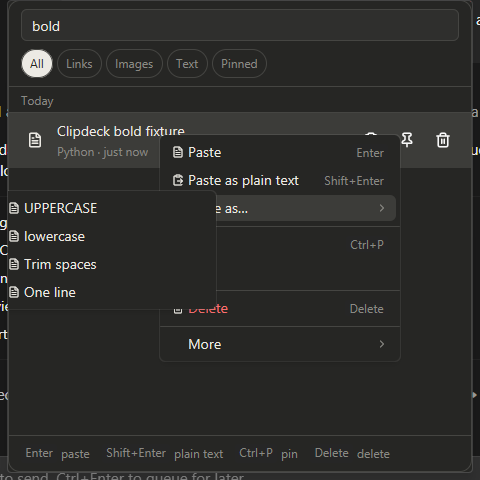
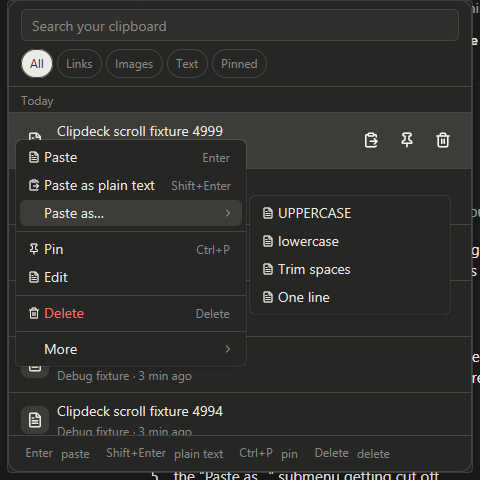
Keep paste submenus inside the popup

diff --git a/src/ui/menu.rs b/src/ui/menu.rs
@@ -24,7 +24,7 @@ fn item(label: &str, view: WeakEntity<Popup>, id: i64, cmd: Command) -> PopupMen
             .flex()
             .items_center()
             .w_full()
-            .min_w(px(180.))
+            .min_w(px(160.))
             .gap_3()
             .text_color(if matches!(cmd, Command::Delete) {
                 cx.theme().danger
@@ -43,17 +43,13 @@ pub(super) fn build(
     mut menu: PopupMenu,
     view: WeakEntity<Popup>,
     id: i64,
+    clip: &crate::clip::Clip,
     window: &mut Window,
     cx: &mut Context<PopupMenu>,
 ) -> PopupMenu {
-    let Some(clip) = view
-        .upgrade()
-        .and_then(|v| v.read(cx).clips.iter().find(|c| c.id == id).cloned())
-    else {
-        return menu;
-    };
     menu = menu
-        .min_w(px(240.))
+        .min_w(px(220.))
+        .max_w(px(230.))
         .item(item("Paste", view.clone(), id, Command::Paste(false)))
         .item(
             item(
@@ -84,7 +80,7 @@ pub(super) fn build(
             } else {
                 sub = sub.item(PopupMenuItem::new("Use Paste to copy files").disabled(true));
             }
-            sub
+            sub.min_w(px(200.)).max_w(px(220.))
         })
         .separator()
         .item(item(
@@ -98,12 +94,14 @@ pub(super) fn build(
         .item(item("Delete", view.clone(), id, Command::Delete))
         .separator();
     menu.submenu("More", window, cx, move |sub, _, _| {
-        sub.item(item(
-            "Copy without pasting",
-            view.clone(),
-            id,
-            Command::Copy,
-        ))
-        .item(item("Clip details", view.clone(), id, Command::Details))
+        sub.min_w(px(200.))
+            .max_w(px(220.))
+            .item(item(
+                "Copy without pasting",
+                view.clone(),
+                id,
+                Command::Copy,
+            ))
+            .item(item("Clip details", view.clone(), id, Command::Details))
     })
 }

diff --git a/src/ui/rows.rs b/src/ui/rows.rs
@@ -3,7 +3,7 @@ use gpui::*;
 use gpui_component::{
     ActiveTheme, Icon,
     button::{Button, ButtonVariants},
-    menu::ContextMenuExt,
+    menu::PopupMenu,
 };
 use gpui_kit_assets::IconName;
 use std::sync::Arc;
@@ -65,7 +65,6 @@ impl Popup {
                 .child(icon(&clip.kind))
                 .into_any_element()
         };
-        let view = cx.entity().downgrade();
         div()
             .id(("clip", id as u64))
             .w_full()
@@ -156,9 +155,28 @@ impl Popup {
                 this.selected = ix;
                 cx.notify();
             }))
-            .context_menu(move |menu, window, cx| {
-                super::menu::build(menu, view.clone(), id, window, cx)
-            })
+            .on_mouse_down(
+                MouseButton::Right,
+                cx.listener(move |this, event: &MouseDownEvent, window, cx| {
+                    let view = cx.entity().downgrade();
+                    let Some(clip) = this.clips.iter().find(|c| c.id == id).cloned() else {
+                        return;
+                    };
+                    let menu = PopupMenu::build(window, cx, move |menu, window, cx| {
+                        super::menu::build(menu, view.clone(), id, &clip, window, cx)
+                    });
+                    cx.subscribe_in(&menu, window, |this, _, _: &DismissEvent, window, cx| {
+                        this.context_menu = None;
+                        this.input.update(cx, |s, cx| s.focus(window, cx));
+                        cx.notify();
+                    })
+                    .detach();
+                    menu.focus_handle(cx).focus(window, cx);
+                    this.context_menu = Some((menu, event.position.y));
+                    cx.stop_propagation();
+                    cx.notify();
+                }),
+            )
             .into_any_element()
     }
 }

diff --git a/src/ui/popup.rs b/src/ui/popup.rs
@@ -29,6 +29,7 @@ pub struct Popup {
     pub(super) error: Option<String>,
     pub(super) editor: Option<(i64, Entity<TextareaState>)>,
     pub(super) details: Option<String>,
+    pub(super) context_menu: Option<(Entity<gpui_component::menu::PopupMenu>, Pixels)>,
     pub(super) paused: Arc<AtomicBool>,
     _subscriptions: Vec<Subscription>,
 }
@@ -72,6 +73,7 @@ impl Popup {
             error: None,
             editor: None,
             details: None,
+            context_menu: None,
             paused,
             _subscriptions: vec![change, activation, theme],
         };
@@ -87,6 +89,7 @@ impl Popup {
         self.error = None;
         self.editor = None;
         self.details = None;
+        self.context_menu = None;
         self.input.update(cx, |s, cx| {
             s.set_value("", window, cx);
             s.focus(window, cx);

diff --git a/src/ui/render.rs b/src/ui/render.rs
@@ -124,5 +124,14 @@ impl Render for Popup {
                     .child(e)
             }))
             .child(Self::footer(cx))
+            // Reserve horizontal room for the second menu inside the 480px popup.
+            .children(self.context_menu.as_ref().map(|(menu, y)| {
+                deferred(
+                    anchored()
+                        .position(point(px(8.), *y))
+                        .snap_to_window_with_margin(px(8.))
+                        .child(menu.clone()),
+                )
+            }))
     }
 }
